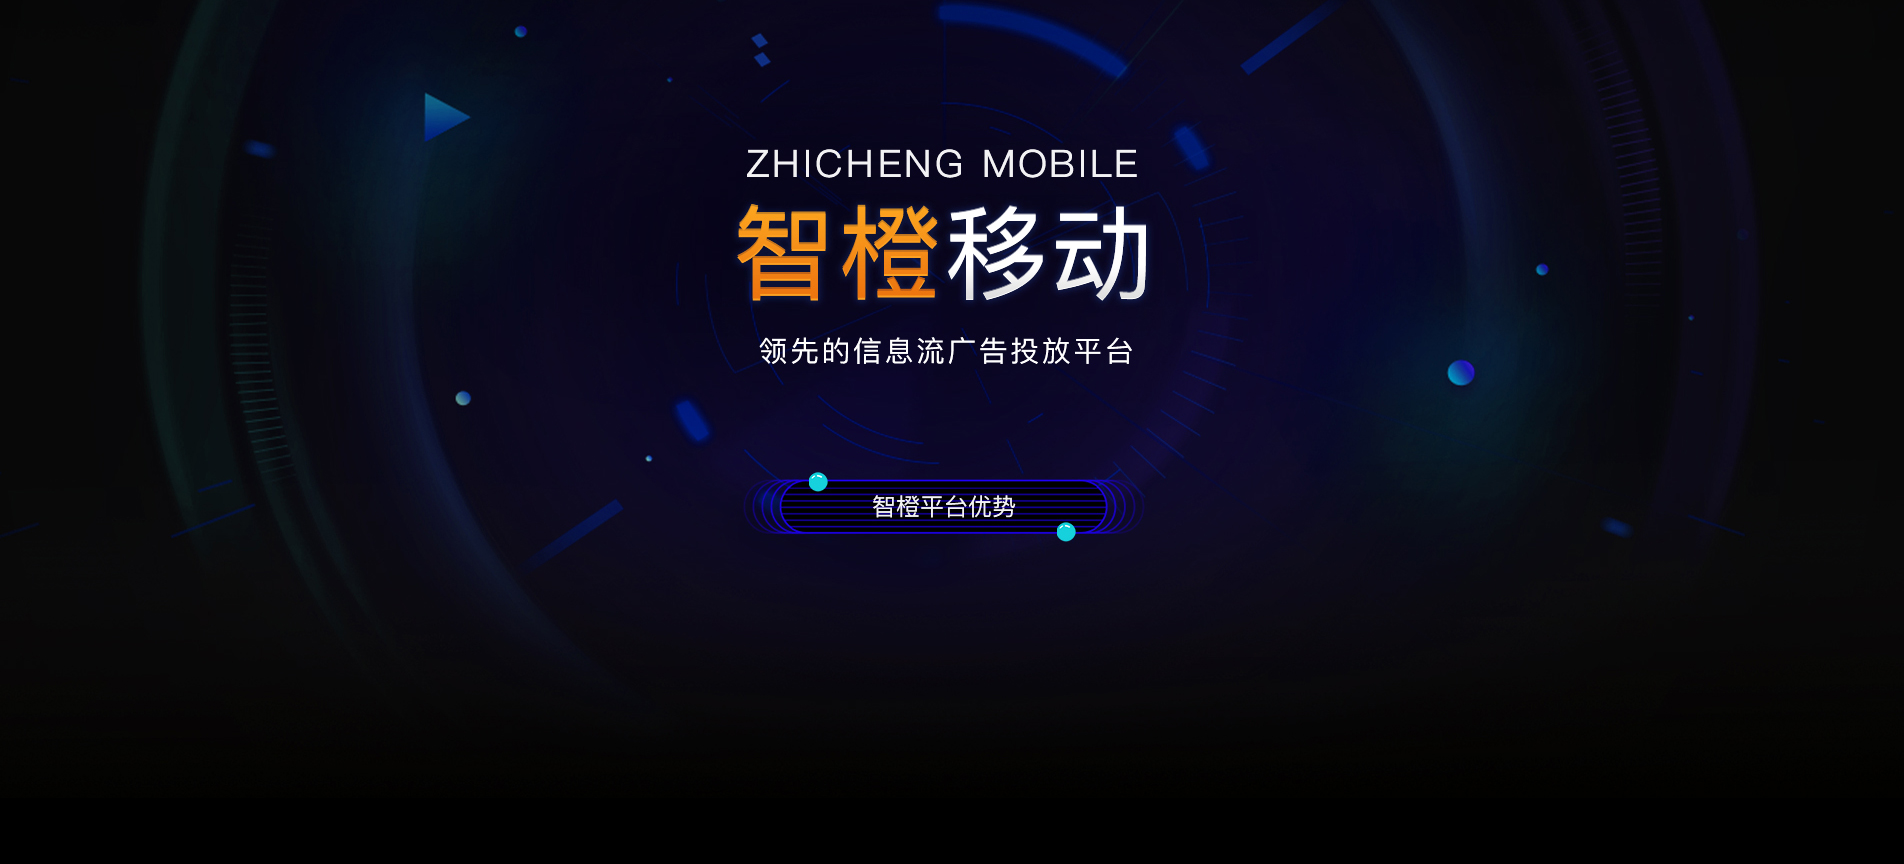
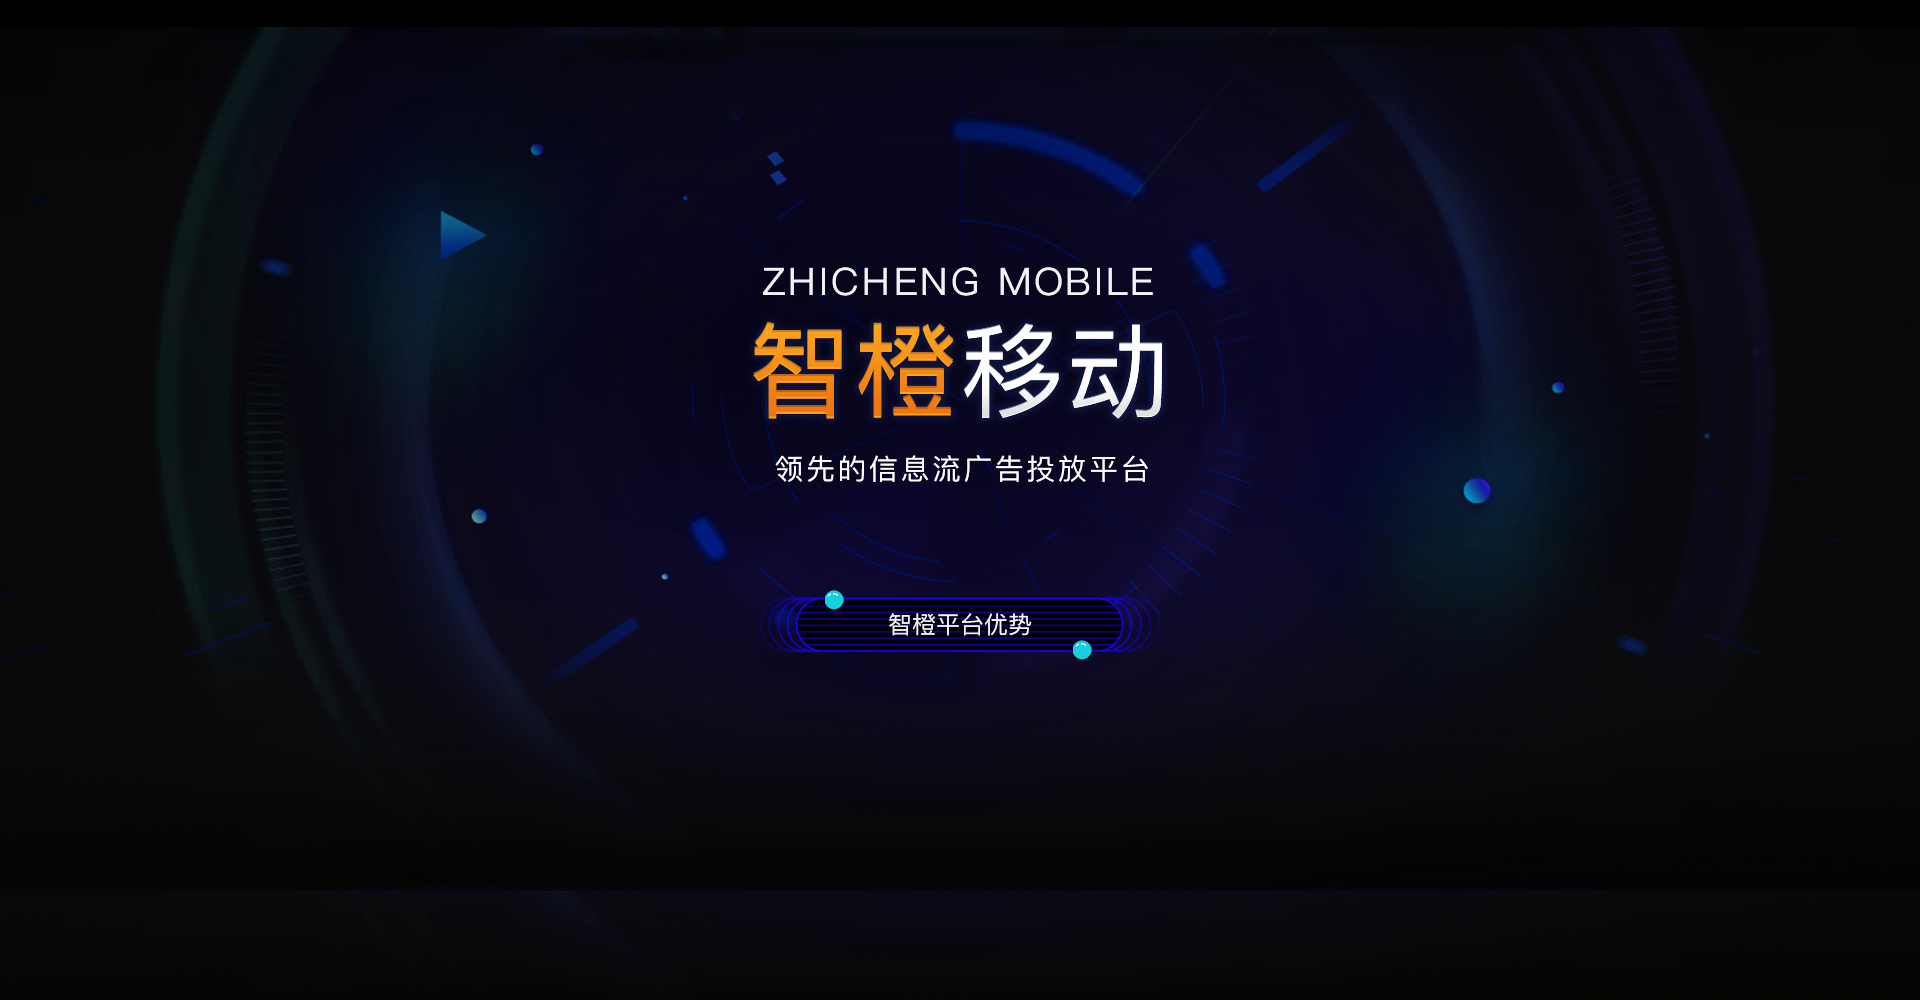
youhua

diff --git a/src/app/boardtwo.component.ts b/src/app/boardtwo.component.ts
@@ -57,6 +57,7 @@ export class BoardtwoComponent implements OnInit, OnDestroy {
 
   @ViewChild('code_template', {read: TemplateRef}) code_template_ref: TemplateRef<any>;
   @ViewChild('containerFull') containerFullRef: ElementRef;
+  @ViewChild('container') containerRef: ElementRef;
   @ViewChild('head') headRef: ElementRef;
   @ViewChild('imgParent') imgParentRef: ElementRef;
   @ViewChild('footer') footer: ElementRef;
@@ -89,23 +90,15 @@ export class BoardtwoComponent implements OnInit, OnDestroy {
 
 
     this.verifyCode();
-    let scrollerHeight = this.containerFullRef.nativeElement.scrollHeight;
+
 
     this.renderer.listen('window', 'resize', (event) => {
-      // scrollerHeight = this.containerFullRef.nativeElement.scrollHeight;
-      //      if (window.document.body.offsetWidth <= 1356) {
-      //        this.resize_flag = 10;
-      //      }else {
-      //        this.resize_flag = 0;
-      //      }
-      // this.renderer.setStyle(this.footer.nativeElement, 'top', (scrollerHeight - this.footer.nativeElement.offsetHeight - this.resize_flag) + 'px');
-      // if (this.login_show) {
-      //   if (this.scrollTop && ((this.scrollTop_num + this.document.body.offsetHeight) >= scrollerHeight) ) {
-      //     this.renderer.setStyle(this.loginRef.nativeElement, 'top', (scrollerHeight  - this.loginRef.nativeElement.offsetHeight - this.footer.nativeElement.offsetHeight - this.resize_flag) + 'px');
-      //   }else {
-      //     this.renderer.setStyle(this.loginRef.nativeElement, 'top', (this.scrollTop_num + this.document.body.offsetHeight - this.loginRef.nativeElement.offsetHeight - this.resize_flag) + 'px');
-      //   }
-      // }
+           if (window.document.body.offsetWidth <= 1356) {
+             this.resize_flag = 10;
+           }else {
+             this.resize_flag = 0;
+           }
+      this.containerFullRef.nativeElement.scrollTop = this.containerFullRef.nativeElement.scrollTop --;
     })
 
 
@@ -113,25 +106,49 @@ export class BoardtwoComponent implements OnInit, OnDestroy {
 
     // 滚动条在哪里 就监听哪里
     this.renderer.listen(this.containerFullRef.nativeElement, 'scroll', (event) => {
-      scrollerHeight = this.containerFullRef.nativeElement.scrollHeight;
-      this.scrollTop_num = event.target.scrollTop;
+      console.log('触发')
+      console.log(event.target.scrollTop)
+      console.log(this.containerFullRef.nativeElement.scrollHeight)
+      console.log(this.containerRef.nativeElement.offsetHeight)
       // 头部的fixed不好用  滚动条出现的时候
       this.renderer.setStyle(this.headRef.nativeElement, 'top', event.target.scrollTop + 'px');
 
-      if (  (event.target.scrollTop + this.document.body.offsetHeight) < scrollerHeight) {
-        this.renderer.removeStyle(this.loginRef.nativeElement, 'transition');
-        this.renderer.setStyle(this.loginRef.nativeElement, 'top', (event.target.scrollTop + this.document.body.offsetHeight - this.loginRef.nativeElement.offsetHeight - this.resize_flag) + 'px');
-        this.renderer.setStyle(this.loginRef.nativeElement, 'opacity', 0);
-        if (this.login_show) {
-          this.renderer.setStyle(this.loginRef.nativeElement, 'opacity', 1);
-        }
-      } else {
-        // 滚动条滑倒底部的时候
-        this.renderer.setStyle(this.loginRef.nativeElement, 'top', (scrollerHeight  - this.loginRef.nativeElement.offsetHeight - this.footer.nativeElement.offsetHeight - this.resize_flag) + 'px');
+
+      // 当有margin-top: 负数
+      // let top =  event.target.scrollTop <= (this.containerRef.nativeElement.offsetHeight + this.resize_flag - this.document.body.offsetHeight) ? -event.target.scrollTop : -(this.containerRef.nativeElement.offsetHeight + this.resize_flag - this.document.body.offsetHeight)
+      // console.log(-top)
+      // console.log(-top + this.document.body.offsetHeight)
+      this.renderer.removeStyle(this.loginRef.nativeElement, 'transition');
+      // this.renderer.setStyle(this.loginRef.nativeElement, 'bottom', top + 'px');
+      this.renderer.setStyle(this.loginRef.nativeElement, 'opacity', 0);
+
+      if (this.login_show) {
+        this.renderer.setStyle(this.loginRef.nativeElement, 'opacity', 1);
       }
 
-      // footer
-      this.renderer.setStyle(this.footer.nativeElement, 'top', (scrollerHeight - this.footer.nativeElement.offsetHeight - this.resize_flag) + 'px');
+      // if ( (-top + this.document.body.offsetHeight - this.resize_flag) === this.containerRef.nativeElement.scrollHeight ) {
+      //   console.log('sdsdsdsdsds')
+      //   this.renderer.setStyle(this.loginRef.nativeElement, 'bottom', (top  +  this.footer.nativeElement.offsetHeight  ) + 'px');
+      // }
+
+      // 快到底部的时候 给login固定位置
+      if(this.containerRef.nativeElement.scrollHeight - this.document.body.offsetHeight - event.target.scrollTop >= this.footer.nativeElement.offsetHeight){
+        this.renderer.setStyle(this.loginRef.nativeElement, 'bottom', -event.target.scrollTop + 'px');
+      }else{
+        this.renderer.setStyle(this.loginRef.nativeElement, 'bottom', -(this.containerRef.nativeElement.scrollHeight - this.document.body.offsetHeight - this.footer.nativeElement.offsetHeight + this.resize_flag) + 'px');
+      }
+
+      this.renderer.setStyle(this.footer.nativeElement, 'bottom', -(this.containerRef.nativeElement.offsetHeight - this.document.body.offsetHeight + this.resize_flag) + 'px');
+
+
+
+
+
+
+
+
+
+
 
 
 

diff --git a/src/app/boardtwo.component.less b/src/app/boardtwo.component.less
@@ -60,9 +60,9 @@
   }
 }
 
-.container{ margin-top: -25px;}
-.banner{ position: relative; min-width: 1200px;}
-.banner>img{ display: block; width: 100%; min-width: 1200px;}
+//.container{ margin-top: -25px;}
+.banner{ position: relative; min-width: 1200px;overflow: hidden;}
+.banner>img{ display: block; width: 100%; min-width: 1200px;margin-top: -70px}
 .banner .banner_box{position: absolute; width: 70%; left: 15%; bottom: 60px; display: flex;}
 .banner .banner_list{flex: 1; text-align: center;}
 .banner .banner_list p{ color: #fff; font-size: 20px; font-weight: 600; margin-top: 20px;}
@@ -254,6 +254,7 @@ input.input-color{
   width:100%;
   position: absolute;
   height: 22px;
+  //bottom: 0;
   line-height: 22px;
   text-align: center;
   font-size: 12px;
@@ -302,12 +303,15 @@ li {
 }
 
 
-
-@media screen and(max-width: 1356px) {
-  .container{ margin-top: 25px;min-width: 1366px}
-  .head, .login, .footer {min-width: 1366px}
-  .banner .banner_box{bottom: 20px; }
+@media screen and(max-width: 1366px) {
+  .banner>img{ margin-top: 20px}
 }
+@media screen and(max-width: 1356px) {
+  .container{ min-width: 1366px}
+  .head, .login, .footer {min-width: 1366px}
+
+}
+
 
 
 

diff --git a/src/app/boardtwo.component.html b/src/app/boardtwo.component.html
@@ -32,10 +32,10 @@
 
     </div>
 
-    <div class="container">
+    <div class="container" #container>
 
       <div class="banner" #home id="home">
-        <img src="https://img.zcdsp.com/zcmobi-assets/index/banner_bg.jpg">
+        <img src="assets/index2/banner_bg.png">
 
         <div class="banner_box">
 
